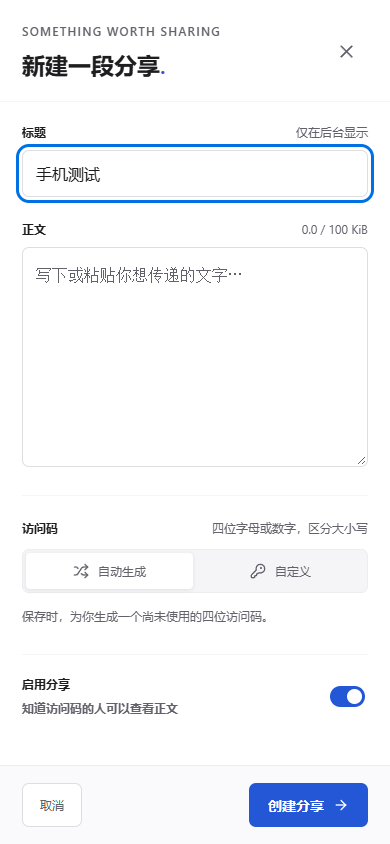
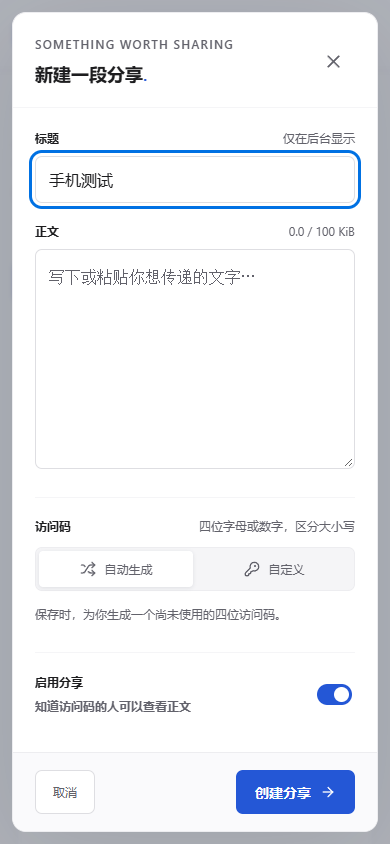
🐛 fix(ui): 修复卡片对比度并居中新建分享弹窗

diff --git a/tests/browser/visual.spec.ts b/tests/browser/visual.spec.ts
@@ -1,0 +1,142 @@
+import { test, expect, type Page } from '@playwright/test';
+import { openDb } from '../../src/server/db.js';
+import { hashPassword } from '../../src/server/security.js';
+const password = 'contrast-test-only-password';
+test.beforeAll(async () => {
+  const db = openDb('./data/acceptance.db');
+  db.prepare('DELETE FROM sessions').run();
+  db.prepare('INSERT OR REPLACE INTO admin VALUES(1,?,?,?)').run(
+    'contrast-owner',
+    await hashPassword(password),
+    Date.now(),
+  );
+  db.prepare('DELETE FROM shares').run();
+  db.prepare('INSERT INTO shares VALUES(?,?,?,?,?,1,?,?)').run(
+    'contrast-fixture',
+    'Contrast sample',
+    'A plain text sample',
+    'Ab12',
+    1,
+    Date.now(),
+    Date.now(),
+  );
+  db.close();
+});
+async function contrast(page: Page) {
+  const failures = await page.evaluate(() => {
+    const rgba = (s: string) => (s.match(/[\d.]+/g) || []).map(Number);
+    const over = (fg: number[], bg: number[]) => {
+      const a = fg[3] ?? 1;
+      return fg.slice(0, 3).map((v, i) => v * a + bg[i] * (1 - a));
+    };
+    const lum = (c: number[]) =>
+      c
+        .slice(0, 3)
+        .map((v) => v / 255)
+        .map((v) => (v <= 0.04045 ? v / 12.92 : ((v + 0.055) / 1.055) ** 2.4))
+        .reduce((v, c, i) => v + c * [0.2126, 0.7152, 0.0722][i], 0);
+    const failures: string[] = [];
+    for (const el of document.querySelectorAll<HTMLElement>('body *')) {
+      if (
+        !Array.from(el.childNodes).some(
+          (n) => n.nodeType === Node.TEXT_NODE && n.textContent?.trim(),
+        ) ||
+        el.closest('svg,script,style,[disabled]') ||
+        !el.getClientRects().length
+      )
+        continue;
+      const style = getComputedStyle(el);
+      if (style.visibility === 'hidden') continue;
+      const ancestors: Element[] = [];
+      for (let p: Element | null = el; p; p = p.parentElement) ancestors.unshift(p);
+      let bg = [255, 255, 255];
+      for (const p of ancestors) bg = over(rgba(getComputedStyle(p).backgroundColor), bg);
+      const fg = over(rgba(style.color), bg);
+      const a = lum(fg),
+        b = lum(bg),
+        ratio = (Math.max(a, b) + 0.05) / (Math.min(a, b) + 0.05);
+      const large =
+        parseFloat(style.fontSize) >= 24 ||
+        (parseFloat(style.fontSize) >= 18.66 && Number(style.fontWeight) >= 700);
+      if (ratio < (large ? 3 : 4.5))
+        failures.push(`${el.tagName}.${el.className}: ${ratio.toFixed(2)} ${style.color} on ${bg}`);
+    }
+    return failures;
+  });
+  expect(failures).toEqual([]);
+}
+async function owner(page: Page) {
+  await page.goto('/manage');
+  await page.locator('[name=username]').fill('contrast-owner');
+  await page.locator('[name=password]').fill(password);
+  await page.locator('.login-card .primary').click();
+  await expect(page.locator('.dashboard')).toBeVisible();
+}
+for (const colorScheme of ['light', 'dark'] as const)
+  for (const width of [1440, 320]) {
+    test(`contrast and create modal: ${colorScheme}, ${width}px`, async ({ page }) => {
+      await page.emulateMedia({ colorScheme });
+      await page.setViewportSize({ width, height: 900 });
+      await page.goto('/');
+      await contrast(page);
+      await page.locator('#access-code').fill('Ab12');
+      await page.locator('.access-card .primary').click();
+      await expect(page.locator('.plain-text')).toBeVisible();
+      await contrast(page);
+      await page.goto('/manage');
+      await expect(page.locator('.login-card')).toHaveCSS('background-color', 'rgb(255, 255, 255)');
+      await contrast(page);
+      await page.locator('[name=username]').focus();
+      await contrast(page);
+      await page.locator('.login-card .primary').hover();
+      await contrast(page);
+      if (colorScheme === 'light')
+        await page.screenshot({
+          path: `docs/evidence/login-${width === 320 ? 'mobile' : 'desktop'}.png`,
+          fullPage: true,
+        });
+      await owner(page);
+      await contrast(page);
+      const trigger = page.locator('.dashboard-top .primary');
+      await trigger.click();
+      const modal = page.locator('dialog.create-dialog');
+      await expect(modal).toBeVisible();
+      await expect(modal).not.toHaveClass(/drawer/);
+      const rect = await modal.boundingBox();
+      expect(rect!.x).toBeGreaterThan(0);
+      expect(Math.abs(rect!.x + rect!.width / 2 - width / 2)).toBeLessThan(2);
+      expect(rect!.y).toBeGreaterThan(0);
+      await expect(page.locator('#title')).toBeFocused();
+      await contrast(page);
+      await page.locator('#title').fill('Unsaved draft');
+      await page.locator('.drawer-body').evaluate((el) => (el.scrollTop = el.scrollHeight));
+      await expect(modal.locator('.drawer-footer .primary')).toBeVisible();
+      expect(await page.evaluate(() => document.documentElement.scrollWidth <= innerWidth)).toBe(
+        true,
+      );
+      if (colorScheme === 'light')
+        await page.screenshot({
+          path: `docs/evidence/create-${width === 320 ? 'mobile' : 'desktop'}.png`,
+        });
+      await page.keyboard.press('Escape');
+      const discard = page.getByRole('dialog', { name: '放弃未保存的更改', exact: true });
+      await expect(discard).toBeVisible();
+      await contrast(page);
+      await page.keyboard.press('Escape');
+      await expect(discard).toHaveCount(0);
+      await expect(page.locator('#title')).toHaveValue('Unsaved draft');
+      await modal.locator('.drawer-header button').click();
+      await page.locator('.danger-button').click();
+      await expect(modal).toHaveCount(0);
+      await expect(trigger).toBeFocused();
+      expect(await page.evaluate(() => document.body.style.overflow)).toBe('');
+      await page.locator('.edit-button').first().click();
+      await expect(page.locator('dialog.drawer')).toBeVisible();
+      await contrast(page);
+      await page.keyboard.press('Escape');
+      await page.locator('.account button').first().click();
+      await expect(page.locator('dialog.modal')).toBeVisible();
+      await contrast(page);
+      await page.keyboard.press('Escape');
+    });
+  }

diff --git a/src/client/main.tsx b/src/client/main.tsx
@@ -719,34 +719,44 @@ function Manage() {
     </div>
   );
 }
+let dialogCount = 0;
+let originalBodyOverflow = '';
 function Dialog({
   children,
   close,
   label,
   drawer = false,
+  className = '',
 }: {
   children: React.ReactNode;
   close: () => void;
   label: string;
   drawer?: boolean;
+  className?: string;
 }) {
   const ref = useRef<HTMLDialogElement>(null);
   useEffect(() => {
     const el = ref.current!,
-      previous = document.body.style.overflow;
+      previousFocus = document.activeElement as HTMLElement | null;
+    if (dialogCount === 0) originalBodyOverflow = document.body.style.overflow;
+    dialogCount++;
     document.body.style.overflow = 'hidden';
     el.showModal();
+    el.querySelector<HTMLElement>('[data-dialog-initial-focus]')?.focus();
     return () => {
-      document.body.style.overflow = previous;
       el.close();
+      dialogCount--;
+      if (dialogCount === 0) document.body.style.overflow = originalBodyOverflow;
+      if (previousFocus?.isConnected) previousFocus.focus();
     };
   }, []);
   return (
     <dialog
-      className={drawer ? 'drawer' : 'modal'}
+      className={`${drawer ? 'drawer' : 'modal'} ${className}`.trim()}
       ref={ref}
       aria-label={label}
       onCancel={(e) => {
+        e.stopPropagation();
         e.preventDefault();
         close();
       }}
@@ -812,7 +822,8 @@ function Editor({
     <Dialog
       close={busy ? () => {} : requestClose}
       label={existing ? '编辑分享' : '新建分享'}
-      drawer
+      drawer={existing}
+      className={existing ? undefined : 'create-dialog'}
     >
       <form onSubmit={save}>
         <div className="drawer-header">
@@ -839,6 +850,7 @@ function Editor({
           </label>
           <input
             id="title"
+            data-dialog-initial-focus
             className="input"
             placeholder="给这段文字起个名字"
             value={title}
@@ -945,7 +957,7 @@ function Editor({
         </div>
       </form>
       {discard && (
-        <div className="discard">
+        <Dialog label="放弃未保存的更改" close={() => setDiscard(false)}>
           <p>有尚未保存的更改，确定放弃吗？</p>
           <button className="secondary" onClick={() => setDiscard(false)}>
             继续编辑
@@ -953,7 +965,7 @@ function Editor({
           <button className="danger-button" onClick={close}>
             放弃更改
           </button>
-        </div>
+        </Dialog>
       )}
     </Dialog>
   );

diff --git a/src/client/style.css b/src/client/style.css
@@ -187,7 +187,7 @@ button svg {
   margin-top: 0;
   border: 1px solid var(--line-soft);
   border-radius: 18px;
-  background: #172033d9;
+  background: var(--canvas);
   box-shadow: 0 12px 45px #17203306;
   padding: 26px 30px 0;
 }
@@ -1535,7 +1535,6 @@ dialog::backdrop {
 }
 .landing-access .access-card {
   width: 100%;
-  background: var(--canvas);
 }
 .landing-note {
   justify-content: center;
@@ -1755,5 +1754,43 @@ dialog::backdrop {
   .code-field:focus-within,
   .search-box:focus-within {
     outline: 2px solid Highlight;
+  }
+}
+
+/* New shares use a centered native modal; existing shares retain the drawer. */
+.create-dialog {
+  position: fixed;
+  inset: 0;
+  margin: auto;
+  padding: 0;
+  width: 640px;
+  max-width: calc(100% - 32px);
+  height: min(820px, calc(100dvh - 48px));
+  max-height: calc(100dvh - 48px);
+  overflow: hidden;
+  background: var(--canvas);
+}
+.create-dialog > form {
+  display: flex;
+  flex-direction: column;
+  height: 100%;
+  min-height: 0;
+}
+.create-dialog .drawer-header,
+.create-dialog .drawer-footer {
+  flex-shrink: 0;
+}
+.create-dialog .drawer-body {
+  min-height: 0;
+  overscroll-behavior: contain;
+}
+dialog {
+  overscroll-behavior: contain;
+}
+@media (max-width: 760px) {
+  .create-dialog {
+    max-width: calc(100% - 24px);
+    height: min(820px, calc(100dvh - 24px));
+    max-height: calc(100dvh - 24px);
   }
 }
